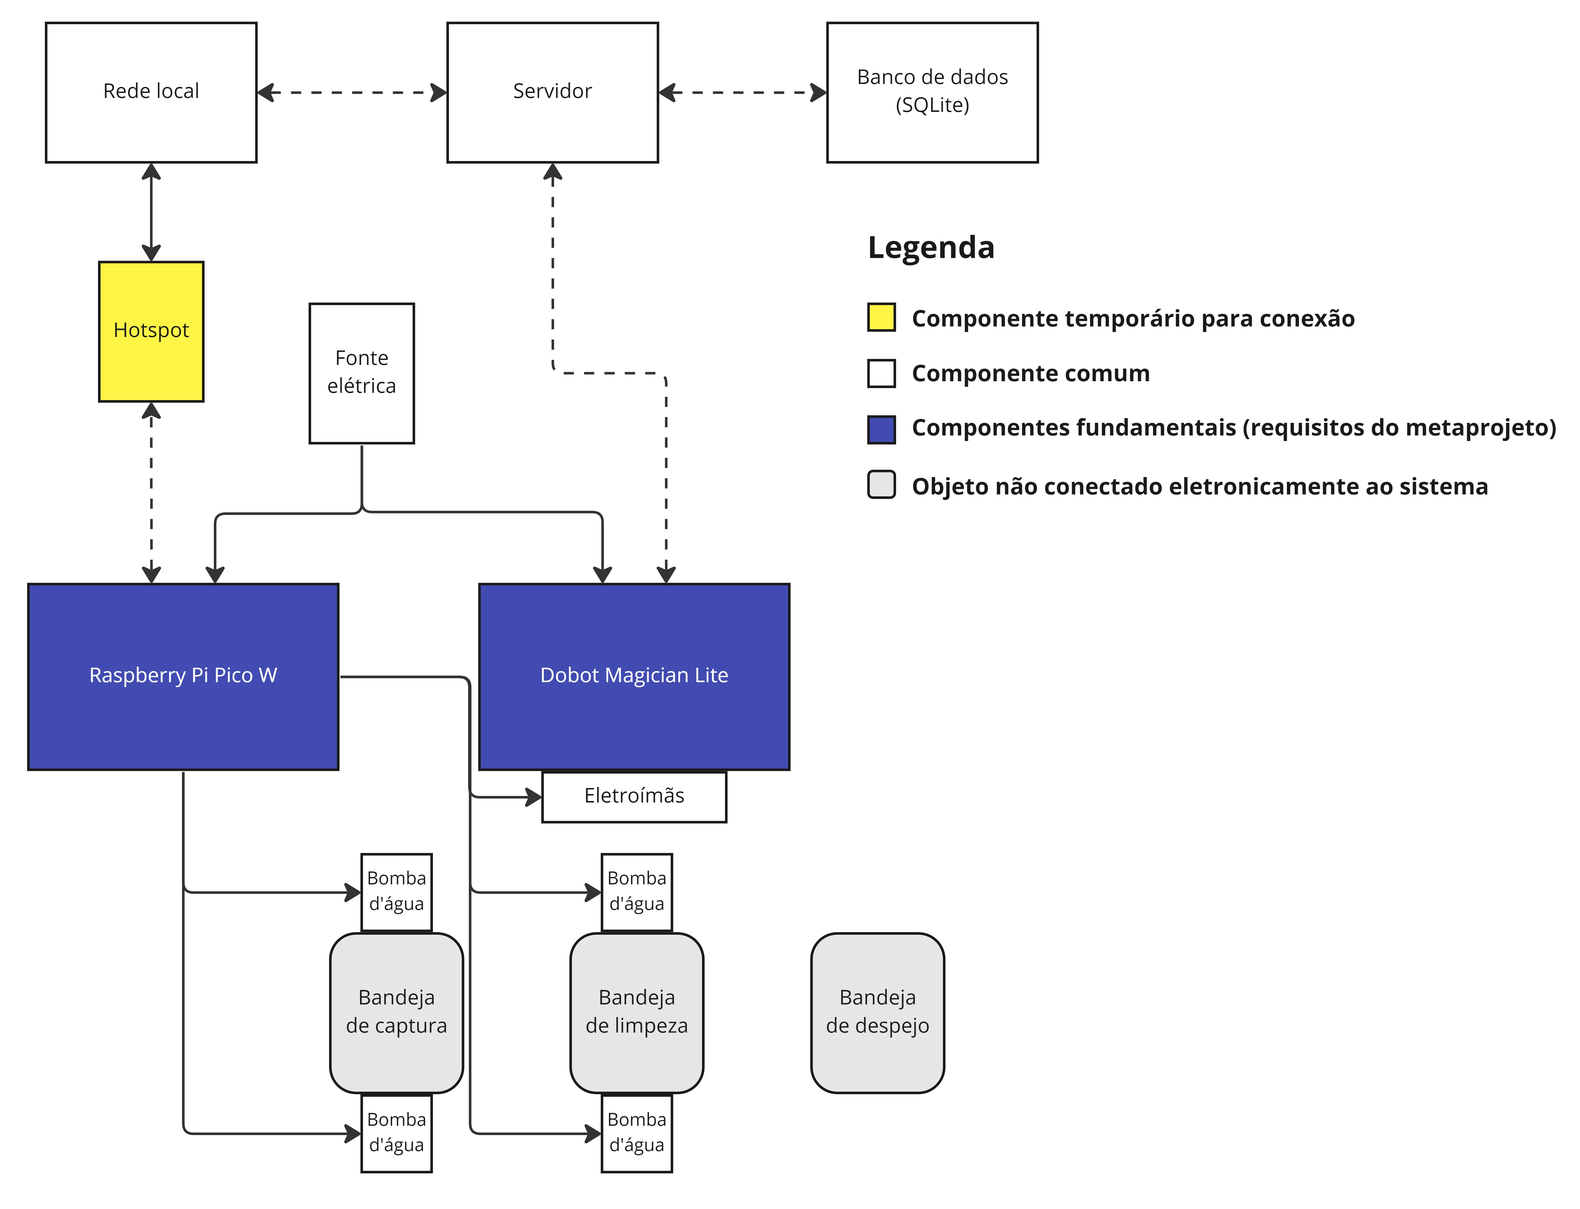
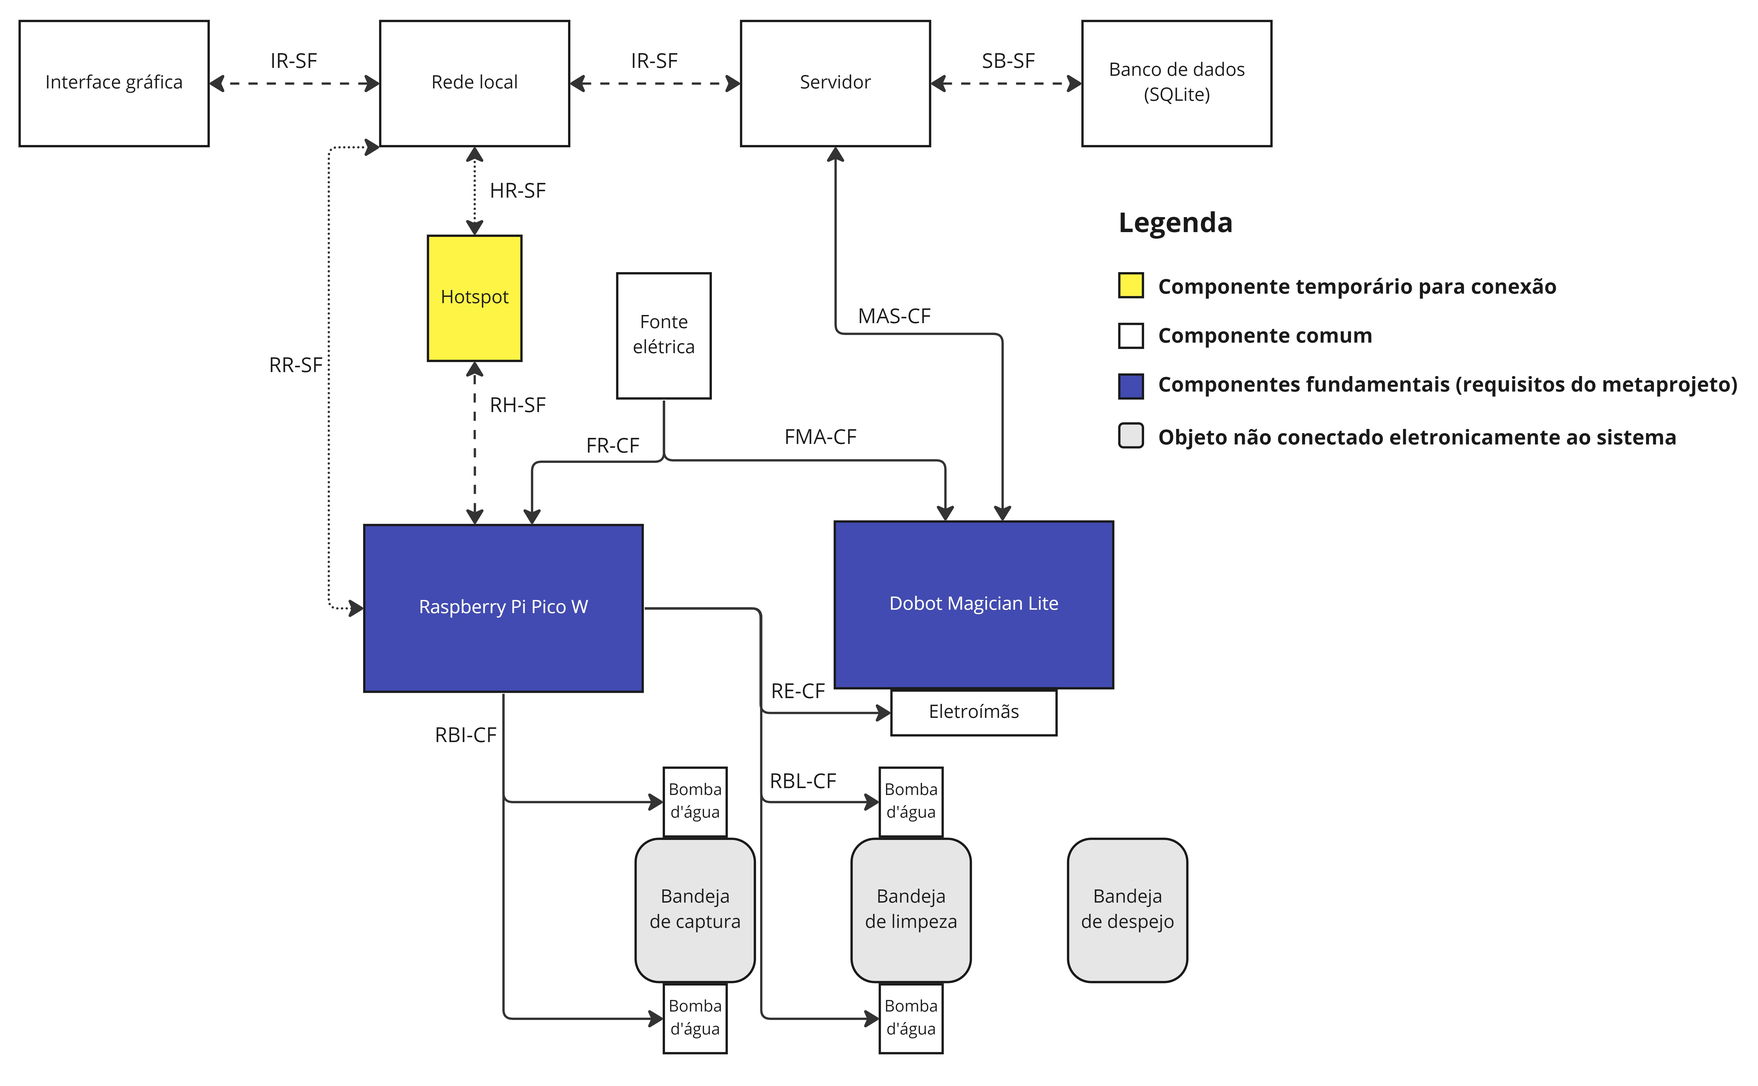
legenda arquitetura

diff --git a/docs/index.md b/docs/index.md
@@ -190,43 +190,30 @@ Considerando que uso do tradicional custe e demore mais que do Magnetum e que a 
 
 **Legenda do Diagrama**
 
-| Componente / Conexão                                    | Descrição da função                                                                                                                                                                                                                                                                                                       | Tipo: entrada / saída / atuador |
-| ------------------------------------------------------- | ------------------------------------------------------------------------------------------------------------------------------------------------------------------------------------------------------------------------------------------------------------------------------------------------------------------------- | ------------------------------- |
-| Raspberry Pi Pico W                                     | Microcontrolador responsável por gerenciar o eletroímã e as bombas d’água, segundo parâmetros passados pelo usuário no browser através de uma API com o servidor.                                                                                                                                                         | Microcontrolador                |
-| Dobot Magician Lite                                     | Braço robótico responsável por movimentar o eletroímã sobre as bandejas, segundo sequência pré-programada e critério de parada.                                                                                                                                                                                           | Robô                            |
-| Eletroímã                                               | Gera campo magnético dinamicamente segundo instruções do Raspberry                                                                                                                                                                                                                                                        | Atuador                         |
-| Buzzer                                                  | Emite sinal auditivo quando o processo inicia e termina.                                                                                                                                                                                                                                                                  | Atuador                         |
-| Sensor de fluxo magnético                               | Sensor responsável por estimar o peso do material magnético atraído pelo ímã segundo alterações do fluxo magnético                                                                                                                                                                                                        | Atuador                         |
-| Bomba d’água                                            | Responsável por agitar a água na bandeja inicial e na bandeja de lavagem                                                                                                                                                                                                                                                  | Atuador                         |
-| Rede local, servidor,  banco de dados e browser         | Interface gráfica do sistema, pela qual o usuário se comunicará com o robô e com o microcontrolador. A interação do usuário final ocorre no browser, que envia as informações ao servidor. O servidor, por sua vez, comunica-se com o banco de dados para assegurar persistência dos inputs e os redireciona ao hardware. | Entrada e saída                 |
-| Fonte elétrica                                          | Fornece eletricidade ao Raspberry Pi, que agira como regulador de tensão, distribuindo energia ao resto do circuito, e ao robô.                                                                                                                                                                                           | Entrada (alimentação elétrica)  |
-| Bandeja inicial                                         | Contém amostra inicial misturada em água, o qual é agitado pela bomba d’água a fim de elevar partículas à superfície do líquido                                                                                                                                                                                           | N/A                             |
-| Bandeja de lavagem                                      | Recipiente utilizado para remover impurezas do material atraído pelo ímã, com o auxílio do atrito causado por uma bomba d’água                                                                                                                                                                                            | N/A                             |
-| Bandeja de despejo                                      | Recebe o material magnético limpo                                                                                                                                                                                                                                                                                         | N/A                             |
-| BRR-SF (Browser e rede local - sem fio)                 | As informações inseridas no browser são redirecionadas ao servidor através da rede local                                                                                                                                                                                                                                  | Conexão                         |
-| RS-SF (Rede local e servidor - sem fio)                 | A rede local direciona dados do browser ao servidor                                                                                                                                                                                                                                                                       | Conexão                         |
-| SBA-SF (Servidor e banco de dados - sem fio)            | Servidor acessa banco de dados para manipular dados persistentes                                                                                                                                                                                                                                                          | Conexão                         |
-| RR-SF (Raspberry e rede local - sem fio)                | Raspberry se comunica com a rede local para receber dados do usuário e comunicar estado geral do sistema à interface gráfica
-
-<br>                                                                                                                                                                                        | Conexão                         |
-| MAS-SF (Magician Lite e Servidor - sem fio)             | O robô é conectado com cabo ao servidor para receber instruções da interface gráfica
-
-<br>                                                                                                                                                                                                                                | Conexão                         |
-| RE-CF (Raspberry e eletroímã - com fio)                 | O Raspberry controla intensidade magnética gerada pelo eletroímã, através do gerenciamento da corrente
-
-<br>                                                                                                                                                                                                              | Conexão                         |
-| RS-CF (Raspberry e sensor de fluxo magnético - com fio) | O Raspberry recebe leituras do sensor de fluxo para estimar o peso do material magnético
-
-<br>                                                                                                                                                                                                                            | Conexão                         |
-| RBI-CF (Raspberry e bomba d’água inicial - com fio)     | O Raspberry controla a bomba d’água na primeira bandeja para agitar a amostra
-
-<br>                                                                                                                                                                                                                                       | Conexão                         |
-| RBL-CF (Raspberry e bomba d’água de lavagem - com fio)  | O Raspberry controla a bomba d’água na segunda bandeja para limpar o material coletado
-
-<br>                                                                                                                                                                                                                              | Conexão                         |
-| RB-CF (Raspberry e buzzer - com fio)                    | O Raspberry aciona o buzzer em momentos específicos para comunicar estados do sistema                                                                                                                                                                                                                                     | Conexão                         |
-| FMA-CF (Fonte elétrica e Magician Lite - com fio)       | A fonte elétrica alimenta o robô                                                                                                                                                                                                                                                                                          | Conexão                         |
-| FR-CF (Fonte elétrica e Raspberry - com fio)            | A fonte elétrica alimenta o Raspberry                                                                                                                                                                                                                                                                                     | Conexão                         |
+| Componente / Conexão                                      | Descrição da função                                                                                                                                                                                                                                                                                                                                                           | Tipo: entrada / saída / atuador |
+| --------------------------------------------------------- | ----------------------------------------------------------------------------------------------------------------------------------------------------------------------------------------------------------------------------------------------------------------------------------------------------------------------------------------------------------------------------- | ------------------------------- |
+| Raspberry Pi Pico W                                       | Microcontrolador responsável por gerenciar o eletroímã e as bombas d’água, segundo parâmetros passados pelo usuário no browser através de uma API com o servidor.                                                                                                                                                                                                             | Microcontrolador                |
+| Dobot Magician Lite                                       | Braço robótico responsável por movimentar o eletroímã sobre as bandejas. segundo sequência pré-programada e critério de parada.                                                                                                                                                                                                                                               | Robô                            |
+| Eletroímã                                                 | Gera campo magnético dinamicamente segundo instruções do Raspberry.                                                                                                                                                                                                                                                                                                           | Atuador                         |
+| Bomba d’água                                              | Responsável por agitar a água na bandeja de captura e na bandeja de limpeza.                                                                                                                                                                                                                                                                                                  | Atuador                         |
+| Rede local, servidor,  banco de dados e interface gráfica | Interface gráfica do sistema, pela qual o usuário se comunicará com o robô e com o microcontrolador. A interação do usuário final ocorre no browser e/ou executável, que envia as informações ao servidor. O servidor, por sua vez, comunica-se com o banco de dados para assegurar a persistência dos inputs e os redireciona ao hardware (Raspberry e Dobot Magician Lite). | Entrada e saída                 |
+| Fonte elétrica                                            | Fornece eletricidade ao Raspberri, que agira como regulador de tensão, distribuindo energia ao resto do circuito, e ao robô.                                                                                                                                                                                                                                                  | Entrada (alimentação elétrica)  |
+| Bandeja de captura                                        | Contém amostra inicial misturada em água, o qual é agitado pela bomba d’água a fim de elevar partículas à superfície do líquido.                                                                                                                                                                                                                                              | N/A                             |
+| Bandeja de limpeza                                        | Recipiente utilizado para remover impurezas do material atraído pelo ímã, com o auxílio do atrito causado por uma bomba d’água.                                                                                                                                                                                                                                               | N/A                             |
+| Bandeja de despejo                                        | Recebe o material magnético limpo.                                                                                                                                                                                                                                                                                                                                            | N/A                             |
+| Hotspot                                                   | A criação de um hotspot (soft access point) no Raspberry permite a conexão com uma interface gráfica intermediária, associada a um WiFi Manager, para que o usuário possa escolher a qual rede local conectar o Magnetum através do browser do celular.                                                                                                                       | Entrada e saída                 |
+| IR-SF (Interface gráfica e rede local - sem fio)          | As informações inseridas na interface gráfica são redirecionadas ao servidor através da rede local.                                                                                                                                                                                                                                                                           | Conexão                         |
+| RS-SF (Rede local e servidor - sem fio)                   | A rede local direciona dados da interface gráfica ao servidor.                                                                                                                                                                                                                                                                                                                | Conexão                         |
+| SBA-SF (Servidor e banco de dados - sem fio)              | Servidor acessa banco de dados para manipular dados persistentes.                                                                                                                                                                                                                                                                                                             | Conexão                         |
+| HR-SF (Hotspot e rede local - sem fio)                    | Hotspot detecta rede local e viabiliza conexão do Raspberry com ela através de uma interface gráfica de WiFi Manager, que recebe SSID e senha.                                                                                                                                                                                                                                | Conexão                         |
+| RH-SF (Raspberry e hotspot - sem fio)                     | Raspberry gera e conecta-se a uma AP para encontrar as redes locais e possibilitar conexão.                                                                                                                                                                                                                                                                                   | Conexão                         |
+| RR-SF (Raspberry e rede local - sem fio)                  | Raspberry se comunica com a rede local para receber dados do usuário e comunicar estado geral do sistema à interface gráfica.                                                                                                                                                                                                                                                 | Conexão                         |
+| MAS-CF (Magician Lite e Servidor - com fio)               | O robô é conectado com cabo ao servidor para receber instruções da interface gráfica.                                                                                                                                                                                                                                                                                         | Conexão                         |
+| RE-CF (Raspberry e eletroímã - com fio)                   | O Raspberry controla a intensidade magnética gerada pelo eletroímã, através do gerenciamento da voltagem, utilizando sinais de PWM.                                                                                                                                                                                                                                           | Conexão                         |
+| RBI-CF (Raspberry e bombas d’água iniciais - com fio)     | O Raspberry controla as bombas d’água na primeira bandeja para agitar a amostra.                                                                                                                                                                                                                                                                                              | Conexão                         |
+| RBL-CF (Raspberry e bombas d’água de limpeza - com fio)   | O Raspberry controla as bombas d’água na segunda bandeja para limpar o material coletado.                                                                                                                                                                                                                                                                                     | Conexão                         |
+| FMA-CF (Fonte elétrica e Magician Lite - com fio)         | A fonte elétrica alimenta o robô.                                                                                                                                                                                                                                                                                                                                             | Conexão                         |
+| FR-CF (Fonte elétrica e Raspberry - com fio)              | A fonte elétrica alimenta o Raspberry.                                                                                                                                                                                                                                                                                                                                        | Conexão                         |
 
 ## Projeto mecânico
 O projeto mecânico para nossa solução envolve cinco módulos: um suporte para o ímã que fica na ponta do braço, um invólucro resistente à água que portege o anterior, protegendo os imãs, uma case simples para o circuito principal, incluindo Raspberry, placa e pontes H, a ser posicionada na traseira do robô e um par de suportes, de plástico abs, feitos na impressora 3D, que compõem a balança. As conexões por fio serão organizadas ao longo do corpo do robô utilizando fixadores como fita adesiva, a fim de diminuir o risco de nós, curto-circuito ou qualquer outro dano à integridade eletrônica do projeto.
